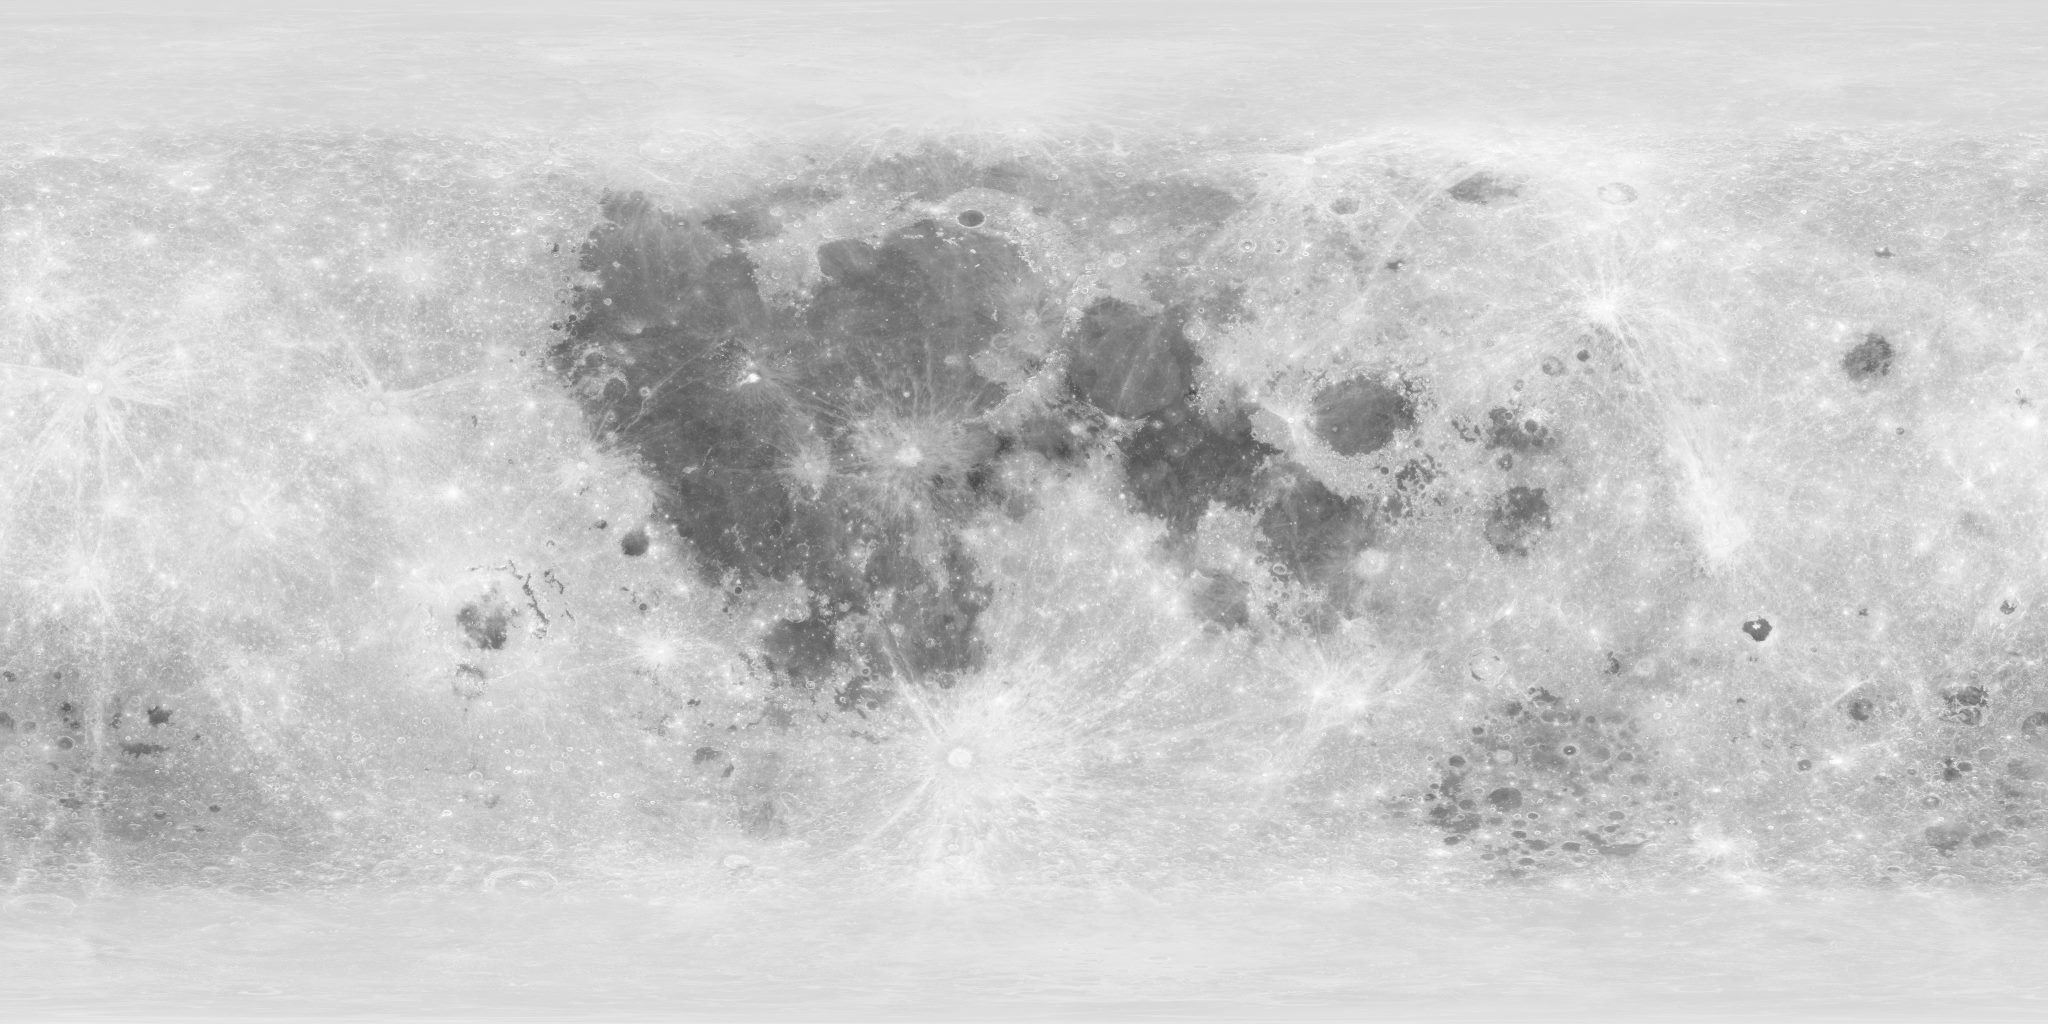
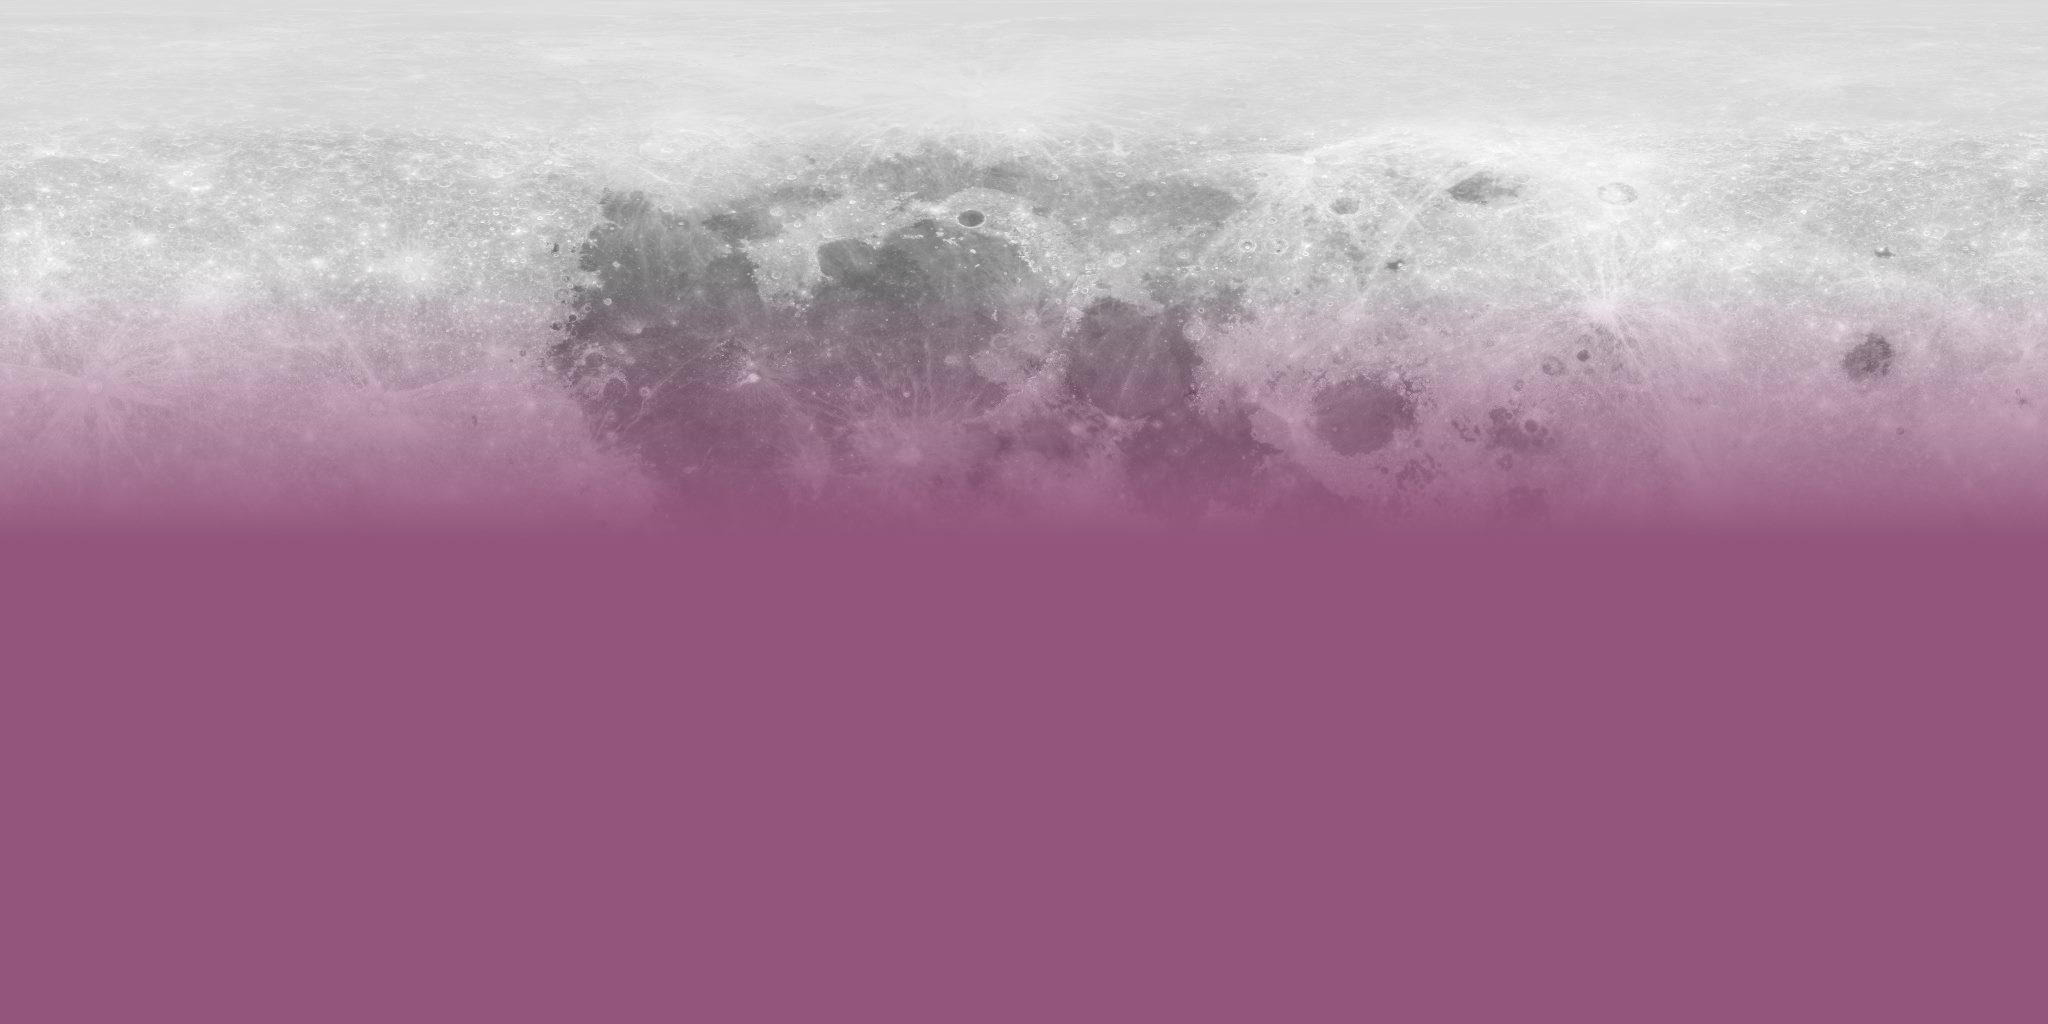
make moon foggy

diff --git a/src/main.js b/src/main.js
@@ -225,7 +225,7 @@ if (!night) {
 		new THREE.SphereBufferGeometry(0.5),
 		new THREE.MeshBasicMaterial({
 			map: moonTexture,
-			color: 0xf5d6ff,
+			color: 0xffffff,
 			fog: false,
 		})
 	);
